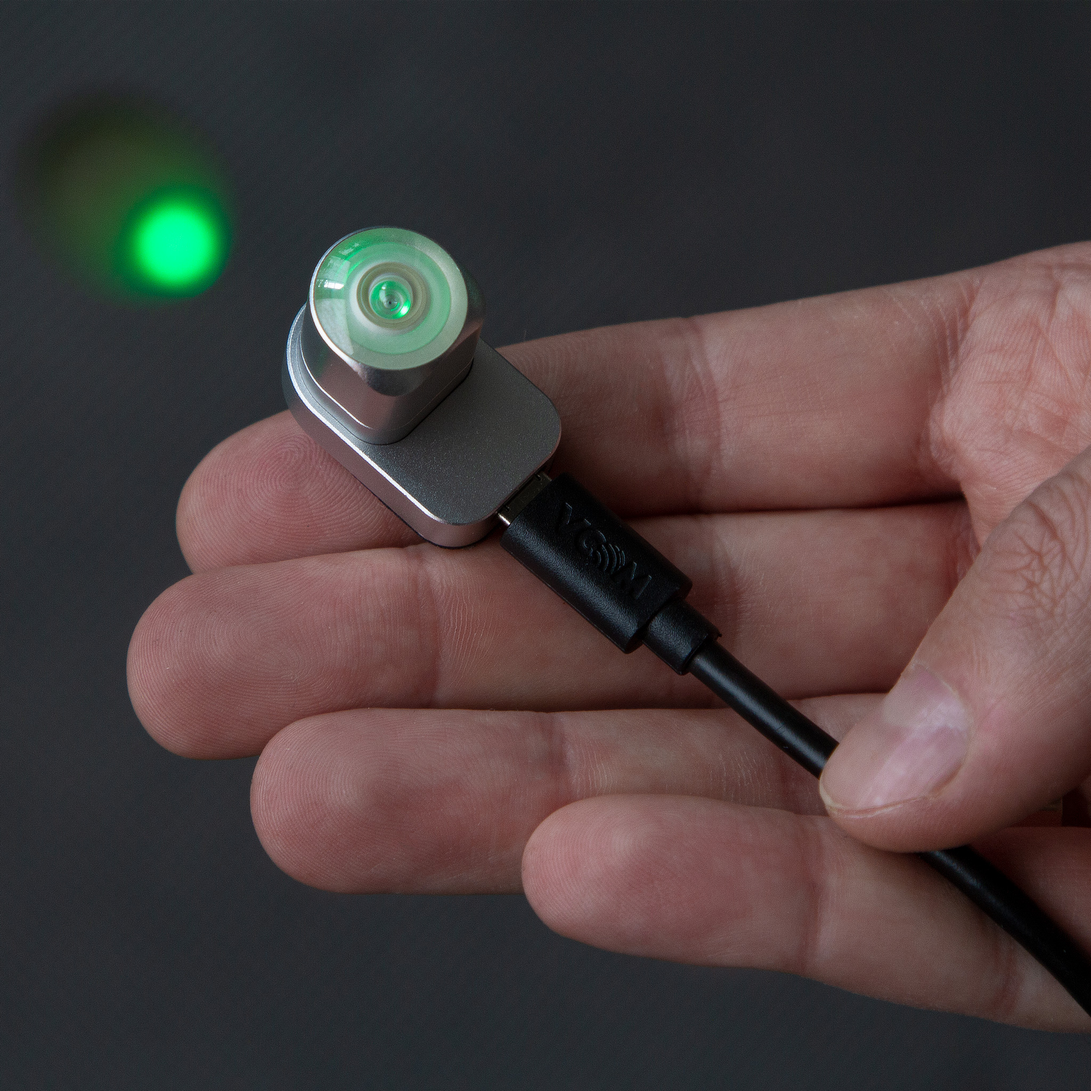
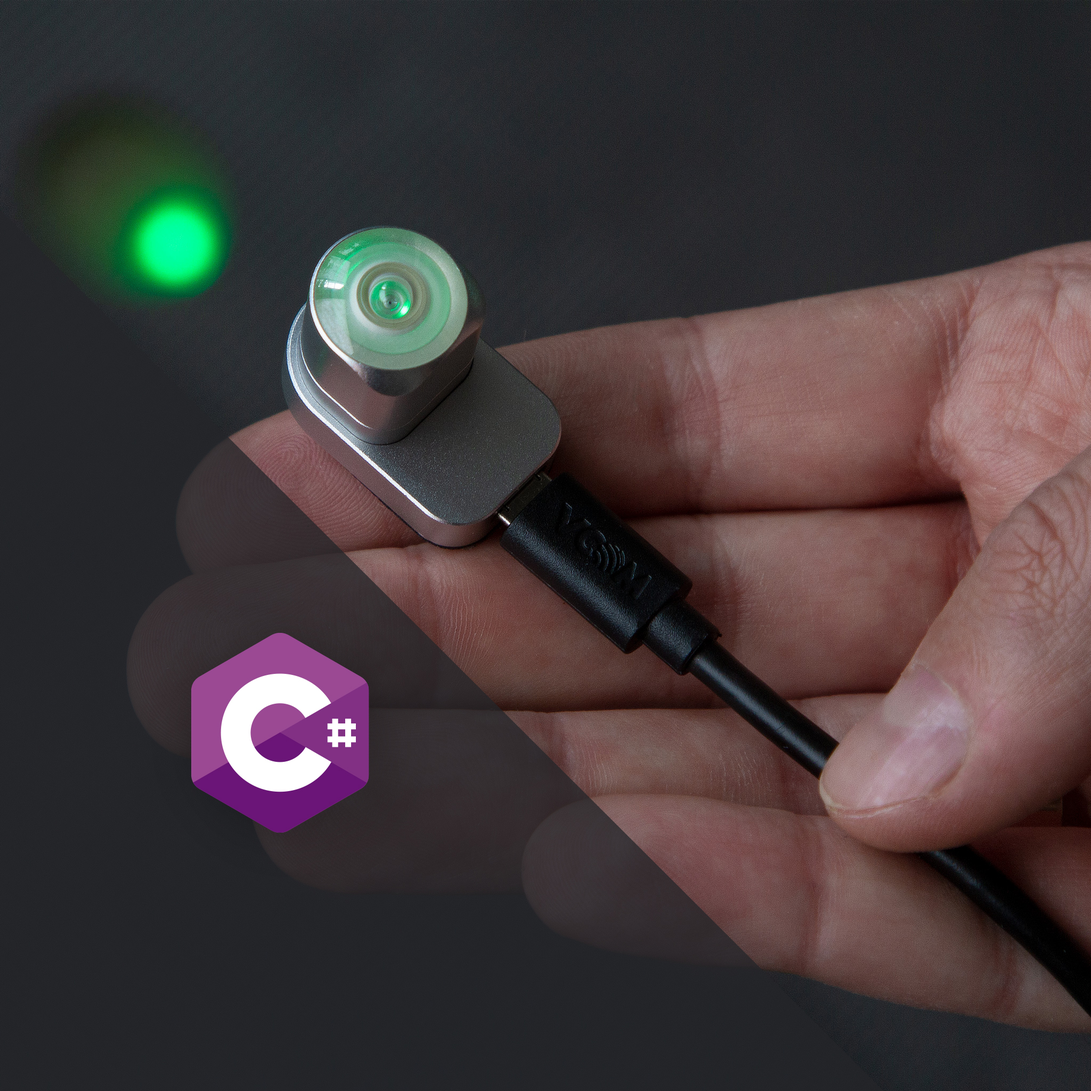
add new images for tutorials:
TrackingMinimalDemoCSharp/TitleImage.jpg
AntilatencyIpTrackingDemoProviderRaspberryPi/TitleImage.jpg

Changed region(s): [[0.0938, 0.4062, 0.6875, 0.9062]]

diff --git a/Assets/Tutorials/AntilatencyIpTrackingDemoProviderRaspberryPi/Antilatency_Ip_Tracking_Demo_Provider_RaspberryPi_en.cs b/Assets/Tutorials/AntilatencyIpTrackingDemoProviderRaspberryPi/Antilatency_Ip_Tracking_Demo_Provider_RaspberryPi_en.cs
@@ -3,7 +3,7 @@ using static Tutorials.Antilatency_Ip_Tracking_Demo_Provider_RaspberryPi_Assets;
 
 partial class Tutorials : Scope {
 
-    public static Material Antilatency_Ip_Tracking_Demo_Provider_RaspberryPi_en => new Material("Antilatency.IpTrackingDemo.Provider.RaspberryPi", null, $"{new ExternalReference("https://github.com/antilatency/Antilatency.IpTrackingDemo.Provider.RaspberryPi", "Antilatency.IpTrackingDemo.Provider.RaspberryPi")} is a demo application that provides data from Antilatency Tracker ({Hardware.Alt}) connected to Raspberry Pi single board computer to network hosts.")
+    public static Material Antilatency_Ip_Tracking_Demo_Provider_RaspberryPi_en => new Material("Antilatency.IpTrackingDemo.Provider.RaspberryPi", Antilatency_Ip_Tracking_Demo_Provider_RaspberryPi_Assets.TitleImage, $"{new ExternalReference("https://github.com/antilatency/Antilatency.IpTrackingDemo.Provider.RaspberryPi", "Antilatency.IpTrackingDemo.Provider.RaspberryPi")} is a demo application that provides data from Antilatency Tracker ({Hardware.Alt}) connected to Raspberry Pi single board computer to network hosts.")
 
         [new Section("Preparation")
             [new UnorderedList()

diff --git a/Assets/Tutorials/AntilatencyIpTrackingDemoProviderRaspberryPi/Antilatency_Ip_Tracking_Demo_Provider_RaspberryPi.cs b/Assets/Tutorials/AntilatencyIpTrackingDemoProviderRaspberryPi/Antilatency_Ip_Tracking_Demo_Provider_RaspberryPi.cs
@@ -3,7 +3,8 @@ using Csml;
 partial class Tutorials : Scope {
     public static LanguageSelector<IMaterial> Antilatency_Ip_Tracking_Demo_Provider_RaspberryPi => new LanguageSelector<IMaterial>();
 
-    public partial class Antilatency_Ip_Tracking_Demo_Provider_RaspberryPi_Assets : Scope {       
+    public partial class Antilatency_Ip_Tracking_Demo_Provider_RaspberryPi_Assets : Scope {
+        public static Image TitleImage => new Image("./TitleImage.jpg");        
         public static Code TrackingDemoOutput => new Code(
             @"/opt/antilatency/bin/AntilatencyIpTrackingDemoProvider -v
 [15:27:31.905][000741][info] Start factory creation
